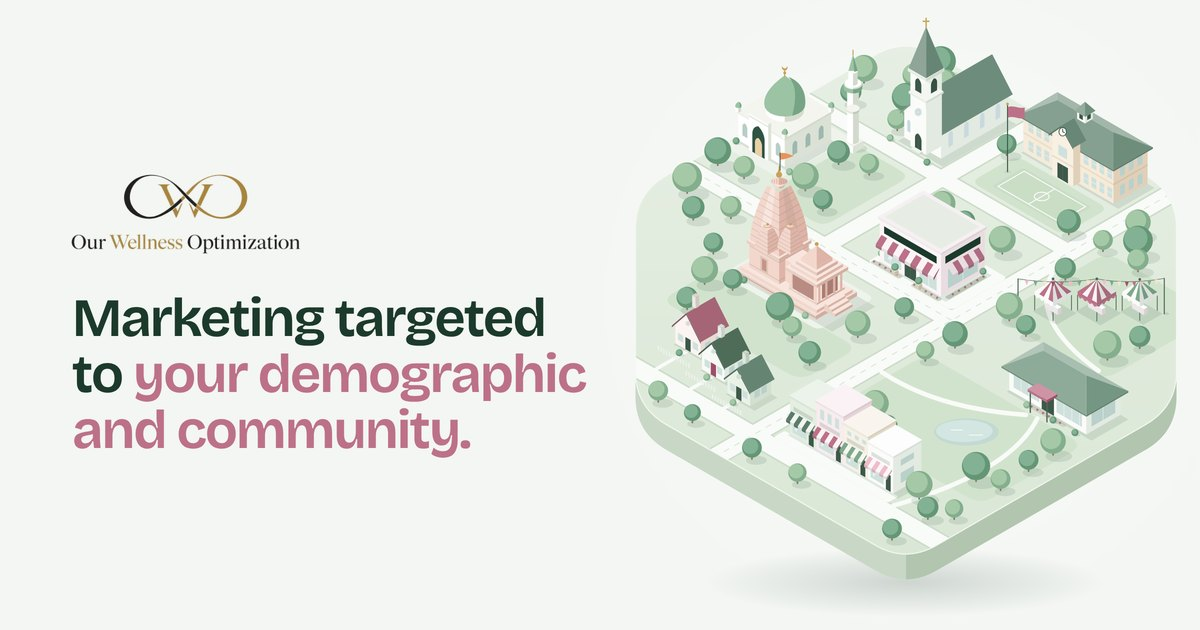
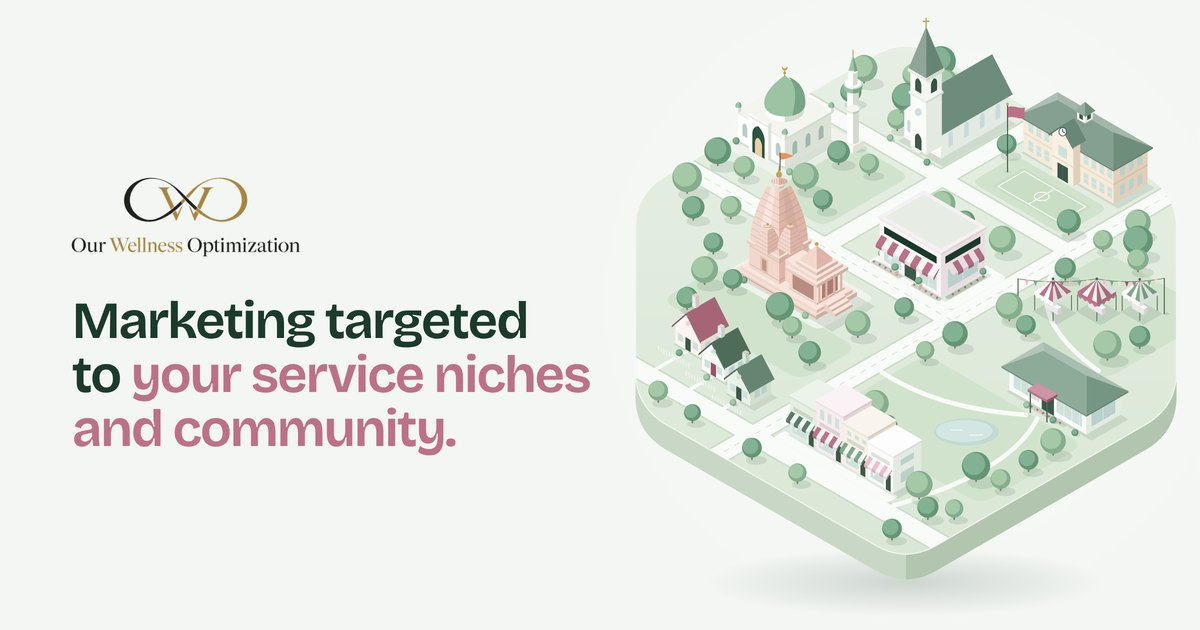
Headline: marketing targeted to your service niches and community (#16)
Home hero h1 now reads "Marketing targeted to your service niches and
community." The share image is re-rendered with the new headline and saved
under a new name (og-niches.jpg) so social previews refresh; og-community.jpg
and og.jpg carry the same art for older links. og:image:alt updated on every
page to match the image.

Claude-Session: https://claude.ai/code/session_01QqY3Uip16oYiFzTZFxaAGH

Changed region(s): [[0.0617, 0.4524, 0.4933, 0.7238], [0.0617, 0.2714, 0.2467, 0.4222]]

diff --git a/index.html b/index.html
@@ -16,10 +16,10 @@
 <meta property="og:title" content="Community-Based Local Marketing | Our Wellness Optimization">
 <meta property="og:description" content="Community-based marketing for local businesses: we study your market, find where customers live, shop and gather, and reach them in print, in person and online.">
 <meta property="og:url" content="https://ouroptimization.com/">
-<meta property="og:image" content="https://ouroptimization.com/assets/img/og-community.jpg">
+<meta property="og:image" content="https://ouroptimization.com/assets/img/og-niches.jpg">
 <meta property="og:image:width" content="1200">
 <meta property="og:image:height" content="630">
-<meta property="og:image:alt" content="Our Wellness Optimization: Demographic &amp; Community-Targeted Marketing">
+<meta property="og:image:alt" content="Our Wellness Optimization: Marketing targeted to your service niches and community">
 <meta name="twitter:card" content="summary_large_image">
 <link rel="preload" href="assets/fonts/figtree-latin-wght-normal.woff2" as="font" type="font/woff2" crossorigin>
 <link rel="preload" href="assets/fonts/bricolage-grotesque-latin-wght-normal.woff2" as="font" type="font/woff2" crossorigin>
@@ -104,7 +104,7 @@
 <section class="hero hero-town" aria-labelledby="hero-h">
   <div class="wrap hero-grid">
     <div class="hero-copy">
-      <h1 id="hero-h">Marketing targeted to <em>your demographic and community.</em></h1>
+      <h1 id="hero-h">Marketing targeted to <em>your service niches and community.</em></h1>
       <p class="lede">We find where your community gathers, then turn those places into opportunities to get your business seen.</p>
       <div class="actions">
         <a class='btn btn-primary' href='/estimate'>Get My Free Market Snapshot</a>

diff --git a/events.html b/events.html
@@ -16,10 +16,10 @@
 <meta property="og:title" content="Community Event Hosting | Our Wellness Optimization">
 <meta property="og:description" content="We host specialty community events where healthcare and wellness practices get a table in front of local families: one practice per specialty, small groups at every table, and a free QR code to collect each family&rsquo;s details.">
 <meta property="og:url" content="https://ouroptimization.com/events">
-<meta property="og:image" content="https://ouroptimization.com/assets/img/og-community.jpg">
+<meta property="og:image" content="https://ouroptimization.com/assets/img/og-niches.jpg">
 <meta property="og:image:width" content="1200">
 <meta property="og:image:height" content="630">
-<meta property="og:image:alt" content="Our Wellness Optimization: Demographic &amp; Community-Targeted Marketing">
+<meta property="og:image:alt" content="Our Wellness Optimization: Marketing targeted to your service niches and community">
 <meta name="twitter:card" content="summary_large_image">
 <link rel="preload" href="assets/fonts/figtree-latin-wght-normal.woff2" as="font" type="font/woff2" crossorigin>
 <link rel="preload" href="assets/fonts/bricolage-grotesque-latin-wght-normal.woff2" as="font" type="font/woff2" crossorigin>

diff --git a/estimate.html b/estimate.html
@@ -16,10 +16,10 @@
 <meta property="og:title" content="Get a Free Local Market Snapshot | Our Wellness Optimization">
 <meta property="og:description" content="Get a free snapshot of your local market: how you show up on Google next to nearby competitors, where your customers live, and the community touchpoints that reach them. No obligation.">
 <meta property="og:url" content="https://ouroptimization.com/estimate">
-<meta property="og:image" content="https://ouroptimization.com/assets/img/og-community.jpg">
+<meta property="og:image" content="https://ouroptimization.com/assets/img/og-niches.jpg">
 <meta property="og:image:width" content="1200">
 <meta property="og:image:height" content="630">
-<meta property="og:image:alt" content="Our Wellness Optimization: Demographic &amp; Community-Targeted Marketing">
+<meta property="og:image:alt" content="Our Wellness Optimization: Marketing targeted to your service niches and community">
 <meta name="twitter:card" content="summary_large_image">
 <link rel="preload" href="assets/fonts/figtree-latin-wght-normal.woff2" as="font" type="font/woff2" crossorigin>
 <link rel="preload" href="assets/fonts/bricolage-grotesque-latin-wght-normal.woff2" as="font" type="font/woff2" crossorigin>

diff --git a/digital-marketing.html b/digital-marketing.html
@@ -16,10 +16,10 @@
 <meta property="og:title" content="Local Digital Marketing Package | Our Wellness Optimization">
 <meta property="og:description" content="The Digital Growth Package: Google SEO, Facebook and Instagram ads and Groupon promotions, with a monthly report and strategy call, built on your local plan.">
 <meta property="og:url" content="https://ouroptimization.com/digital-marketing">
-<meta property="og:image" content="https://ouroptimization.com/assets/img/og-community.jpg">
+<meta property="og:image" content="https://ouroptimization.com/assets/img/og-niches.jpg">
 <meta property="og:image:width" content="1200">
 <meta property="og:image:height" content="630">
-<meta property="og:image:alt" content="Our Wellness Optimization: Demographic &amp; Community-Targeted Marketing">
+<meta property="og:image:alt" content="Our Wellness Optimization: Marketing targeted to your service niches and community">
 <meta name="twitter:card" content="summary_large_image">
 <link rel="preload" href="assets/fonts/figtree-latin-wght-normal.woff2" as="font" type="font/woff2" crossorigin>
 <link rel="preload" href="assets/fonts/bricolage-grotesque-latin-wght-normal.woff2" as="font" type="font/woff2" crossorigin>

diff --git a/google-ads.html b/google-ads.html
@@ -16,10 +16,10 @@
 <meta property="og:title" content="Google Ads for Local Businesses | Our Wellness Optimization">
 <meta property="og:description" content="Google Ads for your local market: radius and ZIP targeting, search-intent keywords, call and landing-page tracking with your offer code, and localized ads.">
 <meta property="og:url" content="https://ouroptimization.com/google-ads">
-<meta property="og:image" content="https://ouroptimization.com/assets/img/og-community.jpg">
+<meta property="og:image" content="https://ouroptimization.com/assets/img/og-niches.jpg">
 <meta property="og:image:width" content="1200">
 <meta property="og:image:height" content="630">
-<meta property="og:image:alt" content="Our Wellness Optimization: Demographic &amp; Community-Targeted Marketing">
+<meta property="og:image:alt" content="Our Wellness Optimization: Marketing targeted to your service niches and community">
 <meta name="twitter:card" content="summary_large_image">
 <link rel="preload" href="assets/fonts/figtree-latin-wght-normal.woff2" as="font" type="font/woff2" crossorigin>
 <link rel="preload" href="assets/fonts/bricolage-grotesque-latin-wght-normal.woff2" as="font" type="font/woff2" crossorigin>

diff --git a/community-marketing.html b/community-marketing.html
@@ -16,10 +16,10 @@
 <meta property="og:title" content="Community Marketing | Our Wellness Optimization">
 <meta property="og:description" content="Sponsorships, events, flyer drops and neighborhood mail at the places your customers live, shop and gather, planned around the community near your business.">
 <meta property="og:url" content="https://ouroptimization.com/community-marketing">
-<meta property="og:image" content="https://ouroptimization.com/assets/img/og-community.jpg">
+<meta property="og:image" content="https://ouroptimization.com/assets/img/og-niches.jpg">
 <meta property="og:image:width" content="1200">
 <meta property="og:image:height" content="630">
-<meta property="og:image:alt" content="Our Wellness Optimization: Demographic &amp; Community-Targeted Marketing">
+<meta property="og:image:alt" content="Our Wellness Optimization: Marketing targeted to your service niches and community">
 <meta name="twitter:card" content="summary_large_image">
 <link rel="preload" href="assets/fonts/figtree-latin-wght-normal.woff2" as="font" type="font/woff2" crossorigin>
 <link rel="preload" href="assets/fonts/bricolage-grotesque-latin-wght-normal.woff2" as="font" type="font/woff2" crossorigin>

diff --git a/marketing-kits.html b/marketing-kits.html
@@ -16,10 +16,10 @@
 <meta property="og:title" content="Branded Marketing Kits | Our Wellness Optimization">
 <meta property="og:description" content="Branded marketing kits for community events, partner shops and first-visit welcome gifts: outreach boxes, apparel, pens and keepsake tins carrying your offer.">
 <meta property="og:url" content="https://ouroptimization.com/marketing-kits">
-<meta property="og:image" content="https://ouroptimization.com/assets/img/og-community.jpg">
+<meta property="og:image" content="https://ouroptimization.com/assets/img/og-niches.jpg">
 <meta property="og:image:width" content="1200">
 <meta property="og:image:height" content="630">
-<meta property="og:image:alt" content="Our Wellness Optimization: Demographic &amp; Community-Targeted Marketing">
+<meta property="og:image:alt" content="Our Wellness Optimization: Marketing targeted to your service niches and community">
 <meta name="twitter:card" content="summary_large_image">
 <link rel="preload" href="assets/fonts/figtree-latin-wght-normal.woff2" as="font" type="font/woff2" crossorigin>
 <link rel="preload" href="assets/fonts/bricolage-grotesque-latin-wght-normal.woff2" as="font" type="font/woff2" crossorigin>

diff --git a/services.html b/services.html
@@ -16,10 +16,10 @@
 <meta property="og:title" content="Services: Eight Strategy Pillars | Our Wellness Optimization">
 <meta property="og:description" content="Eight strategy pillars, from market research and community marketing to direct mail, local search, ads, offers and tracking, combined into one local plan.">
 <meta property="og:url" content="https://ouroptimization.com/services">
-<meta property="og:image" content="https://ouroptimization.com/assets/img/og-community.jpg">
+<meta property="og:image" content="https://ouroptimization.com/assets/img/og-niches.jpg">
 <meta property="og:image:width" content="1200">
 <meta property="og:image:height" content="630">
-<meta property="og:image:alt" content="Our Wellness Optimization: Demographic &amp; Community-Targeted Marketing">
+<meta property="og:image:alt" content="Our Wellness Optimization: Marketing targeted to your service niches and community">
 <meta name="twitter:card" content="summary_large_image">
 <link rel="preload" href="assets/fonts/figtree-latin-wght-normal.woff2" as="font" type="font/woff2" crossorigin>
 <link rel="preload" href="assets/fonts/bricolage-grotesque-latin-wght-normal.woff2" as="font" type="font/woff2" crossorigin>

diff --git a/direct-mail.html b/direct-mail.html
@@ -16,10 +16,10 @@
 <meta property="og:title" content="Direct Mail &amp; EDDM | Our Wellness Optimization">
 <meta property="og:description" content="We plan USPS Every Door Direct Mail by carrier route anywhere in the US, build each mailer around one offer, and track the calls, scans and codes it brings in.">
 <meta property="og:url" content="https://ouroptimization.com/direct-mail">
-<meta property="og:image" content="https://ouroptimization.com/assets/img/og-community.jpg">
+<meta property="og:image" content="https://ouroptimization.com/assets/img/og-niches.jpg">
 <meta property="og:image:width" content="1200">
 <meta property="og:image:height" content="630">
-<meta property="og:image:alt" content="Our Wellness Optimization: Demographic &amp; Community-Targeted Marketing">
+<meta property="og:image:alt" content="Our Wellness Optimization: Marketing targeted to your service niches and community">
 <meta name="twitter:card" content="summary_large_image">
 <link rel="preload" href="assets/fonts/figtree-latin-wght-normal.woff2" as="font" type="font/woff2" crossorigin>
 <link rel="preload" href="assets/fonts/bricolage-grotesque-latin-wght-normal.woff2" as="font" type="font/woff2" crossorigin>

diff --git a/flyers.html b/flyers.html
@@ -16,10 +16,10 @@
 <meta property="og:title" content="Flyer Design &amp; Distribution | Our Wellness Optimization">
 <meta property="og:description" content="Flyers, counter cards and posters designed, printed and placed at local shops and community boards with permission, each carrying your offer and a QR code.">
 <meta property="og:url" content="https://ouroptimization.com/flyers">
-<meta property="og:image" content="https://ouroptimization.com/assets/img/og-community.jpg">
+<meta property="og:image" content="https://ouroptimization.com/assets/img/og-niches.jpg">
 <meta property="og:image:width" content="1200">
 <meta property="og:image:height" content="630">
-<meta property="og:image:alt" content="Our Wellness Optimization: Demographic &amp; Community-Targeted Marketing">
+<meta property="og:image:alt" content="Our Wellness Optimization: Marketing targeted to your service niches and community">
 <meta name="twitter:card" content="summary_large_image">
 <link rel="preload" href="assets/fonts/figtree-latin-wght-normal.woff2" as="font" type="font/woff2" crossorigin>
 <link rel="preload" href="assets/fonts/bricolage-grotesque-latin-wght-normal.woff2" as="font" type="font/woff2" crossorigin>

diff --git a/review-tags.html b/review-tags.html
@@ -16,10 +16,10 @@
 <meta property="og:title" content="Tap-to-Review NFC Tags | Our Wellness Optimization">
 <meta property="og:description" content="Branded NFC review tags with a QR code on the same piece: counter stands, table tents, cards and stickers that open your Google review form in one tap or scan.">
 <meta property="og:url" content="https://ouroptimization.com/review-tags">
-<meta property="og:image" content="https://ouroptimization.com/assets/img/og-community.jpg">
+<meta property="og:image" content="https://ouroptimization.com/assets/img/og-niches.jpg">
 <meta property="og:image:width" content="1200">
 <meta property="og:image:height" content="630">
-<meta property="og:image:alt" content="Our Wellness Optimization: Demographic &amp; Community-Targeted Marketing">
+<meta property="og:image:alt" content="Our Wellness Optimization: Marketing targeted to your service niches and community">
 <meta name="twitter:card" content="summary_large_image">
 <link rel="preload" href="assets/fonts/figtree-latin-wght-normal.woff2" as="font" type="font/woff2" crossorigin>
 <link rel="preload" href="assets/fonts/bricolage-grotesque-latin-wght-normal.woff2" as="font" type="font/woff2" crossorigin>

diff --git a/custom-marketing.html b/custom-marketing.html
@@ -16,10 +16,10 @@
 <meta property="og:title" content="Custom Marketing Materials | Our Wellness Optimization">
 <meta property="og:description" content="Mailers, flyers, event table kits, signage and matching digital creative: one offer, planned by where each piece is used, shipped anywhere in the US.">
 <meta property="og:url" content="https://ouroptimization.com/custom-marketing">
-<meta property="og:image" content="https://ouroptimization.com/assets/img/og-community.jpg">
+<meta property="og:image" content="https://ouroptimization.com/assets/img/og-niches.jpg">
 <meta property="og:image:width" content="1200">
 <meta property="og:image:height" content="630">
-<meta property="og:image:alt" content="Our Wellness Optimization: Demographic &amp; Community-Targeted Marketing">
+<meta property="og:image:alt" content="Our Wellness Optimization: Marketing targeted to your service niches and community">
 <meta name="twitter:card" content="summary_large_image">
 <link rel="preload" href="assets/fonts/figtree-latin-wght-normal.woff2" as="font" type="font/woff2" crossorigin>
 <link rel="preload" href="assets/fonts/bricolage-grotesque-latin-wght-normal.woff2" as="font" type="font/woff2" crossorigin>
